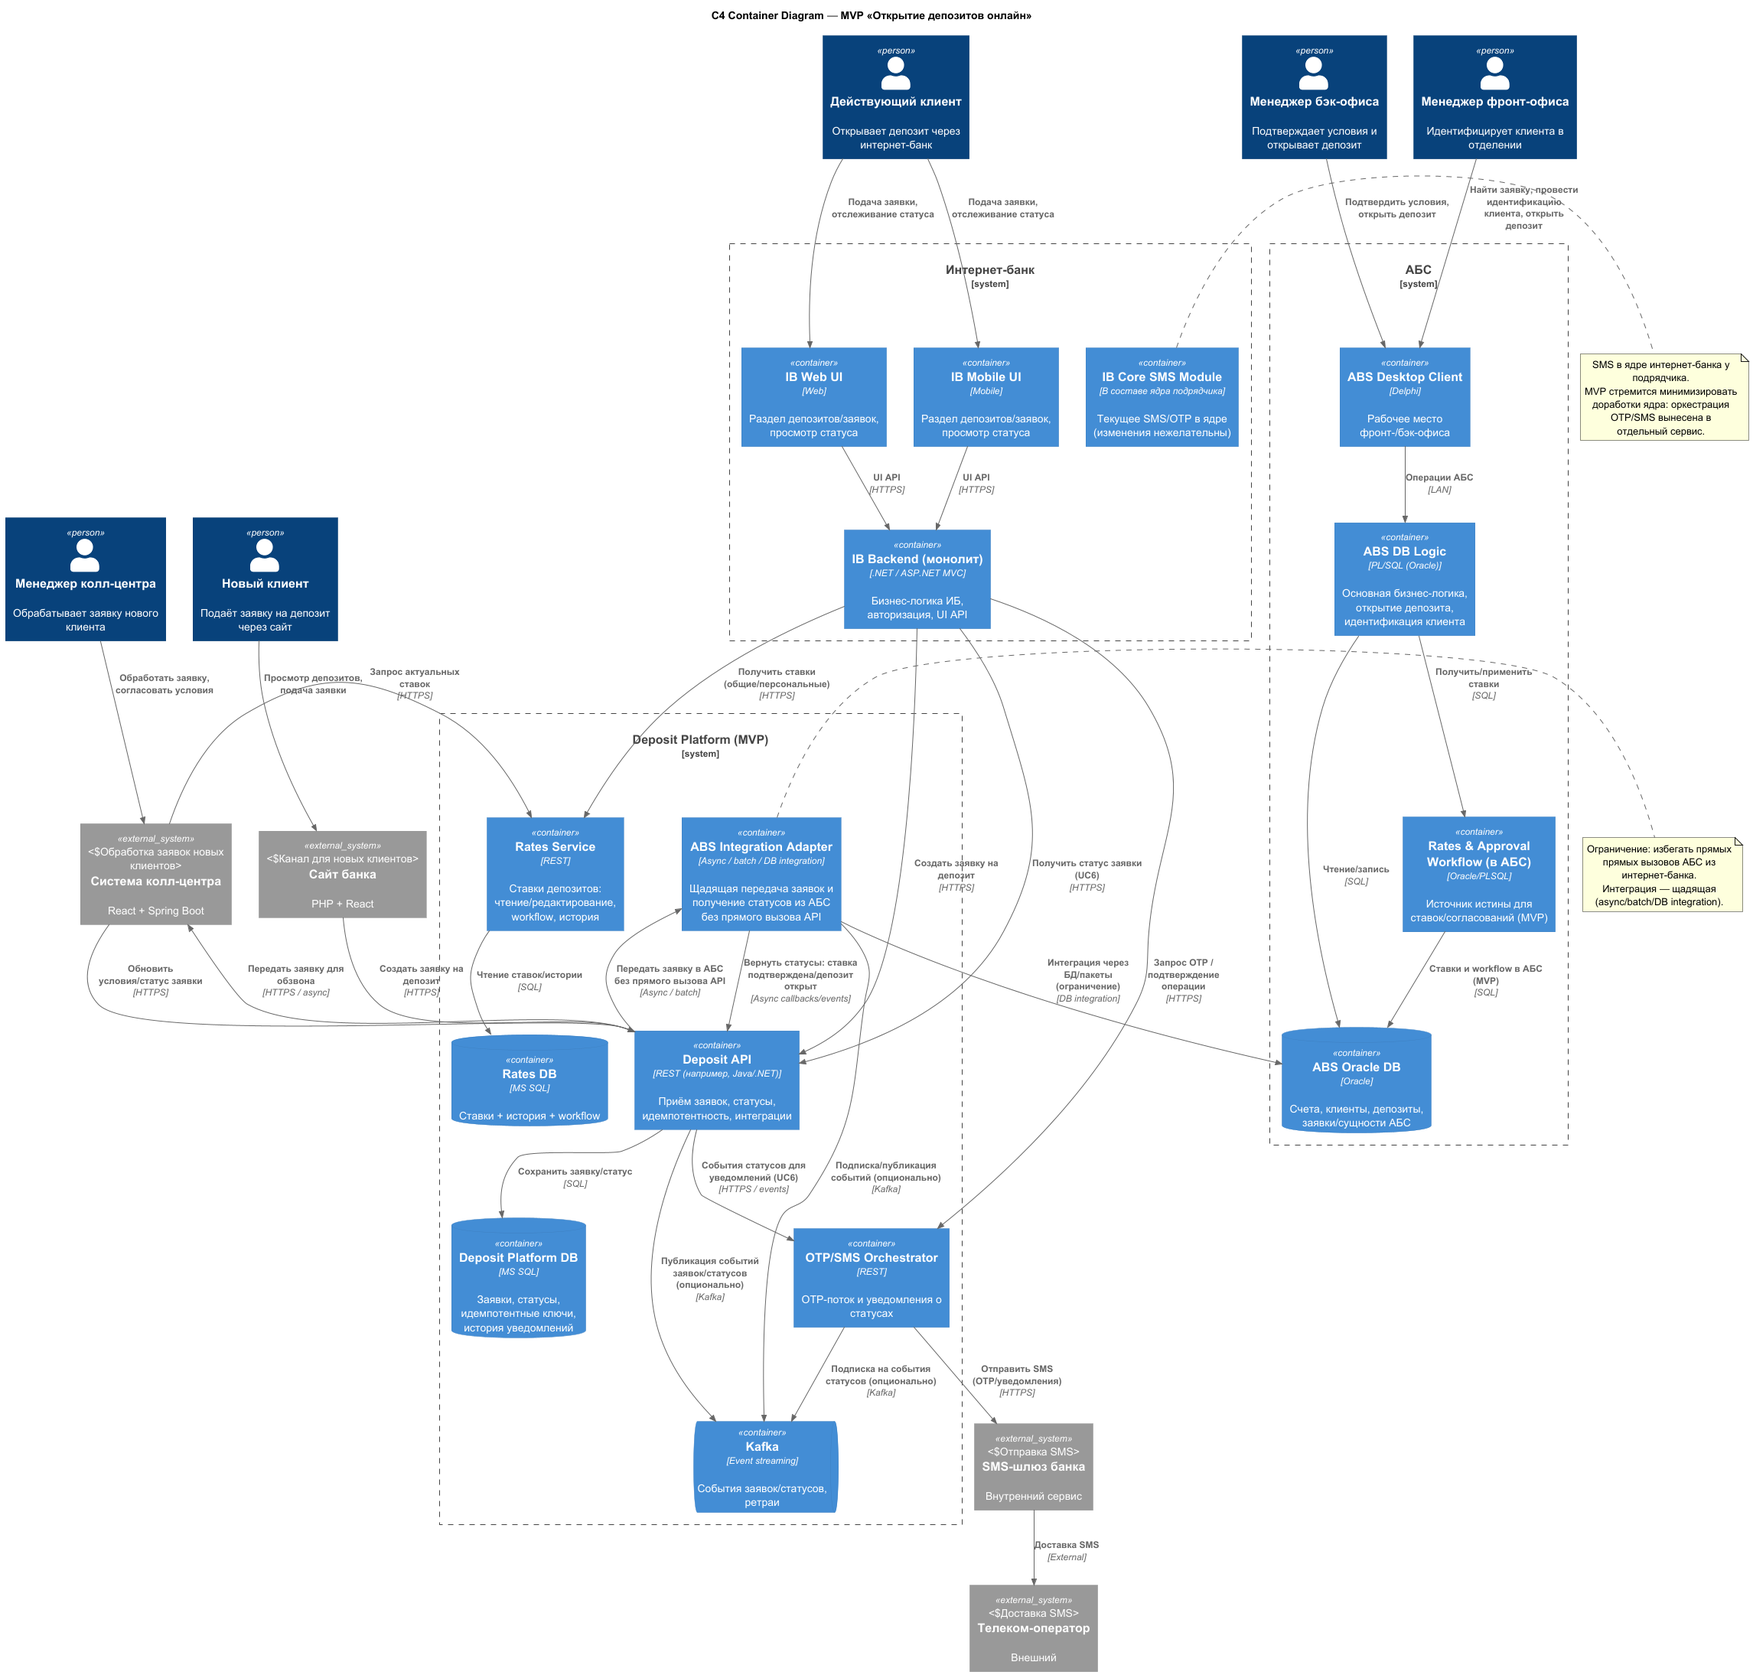
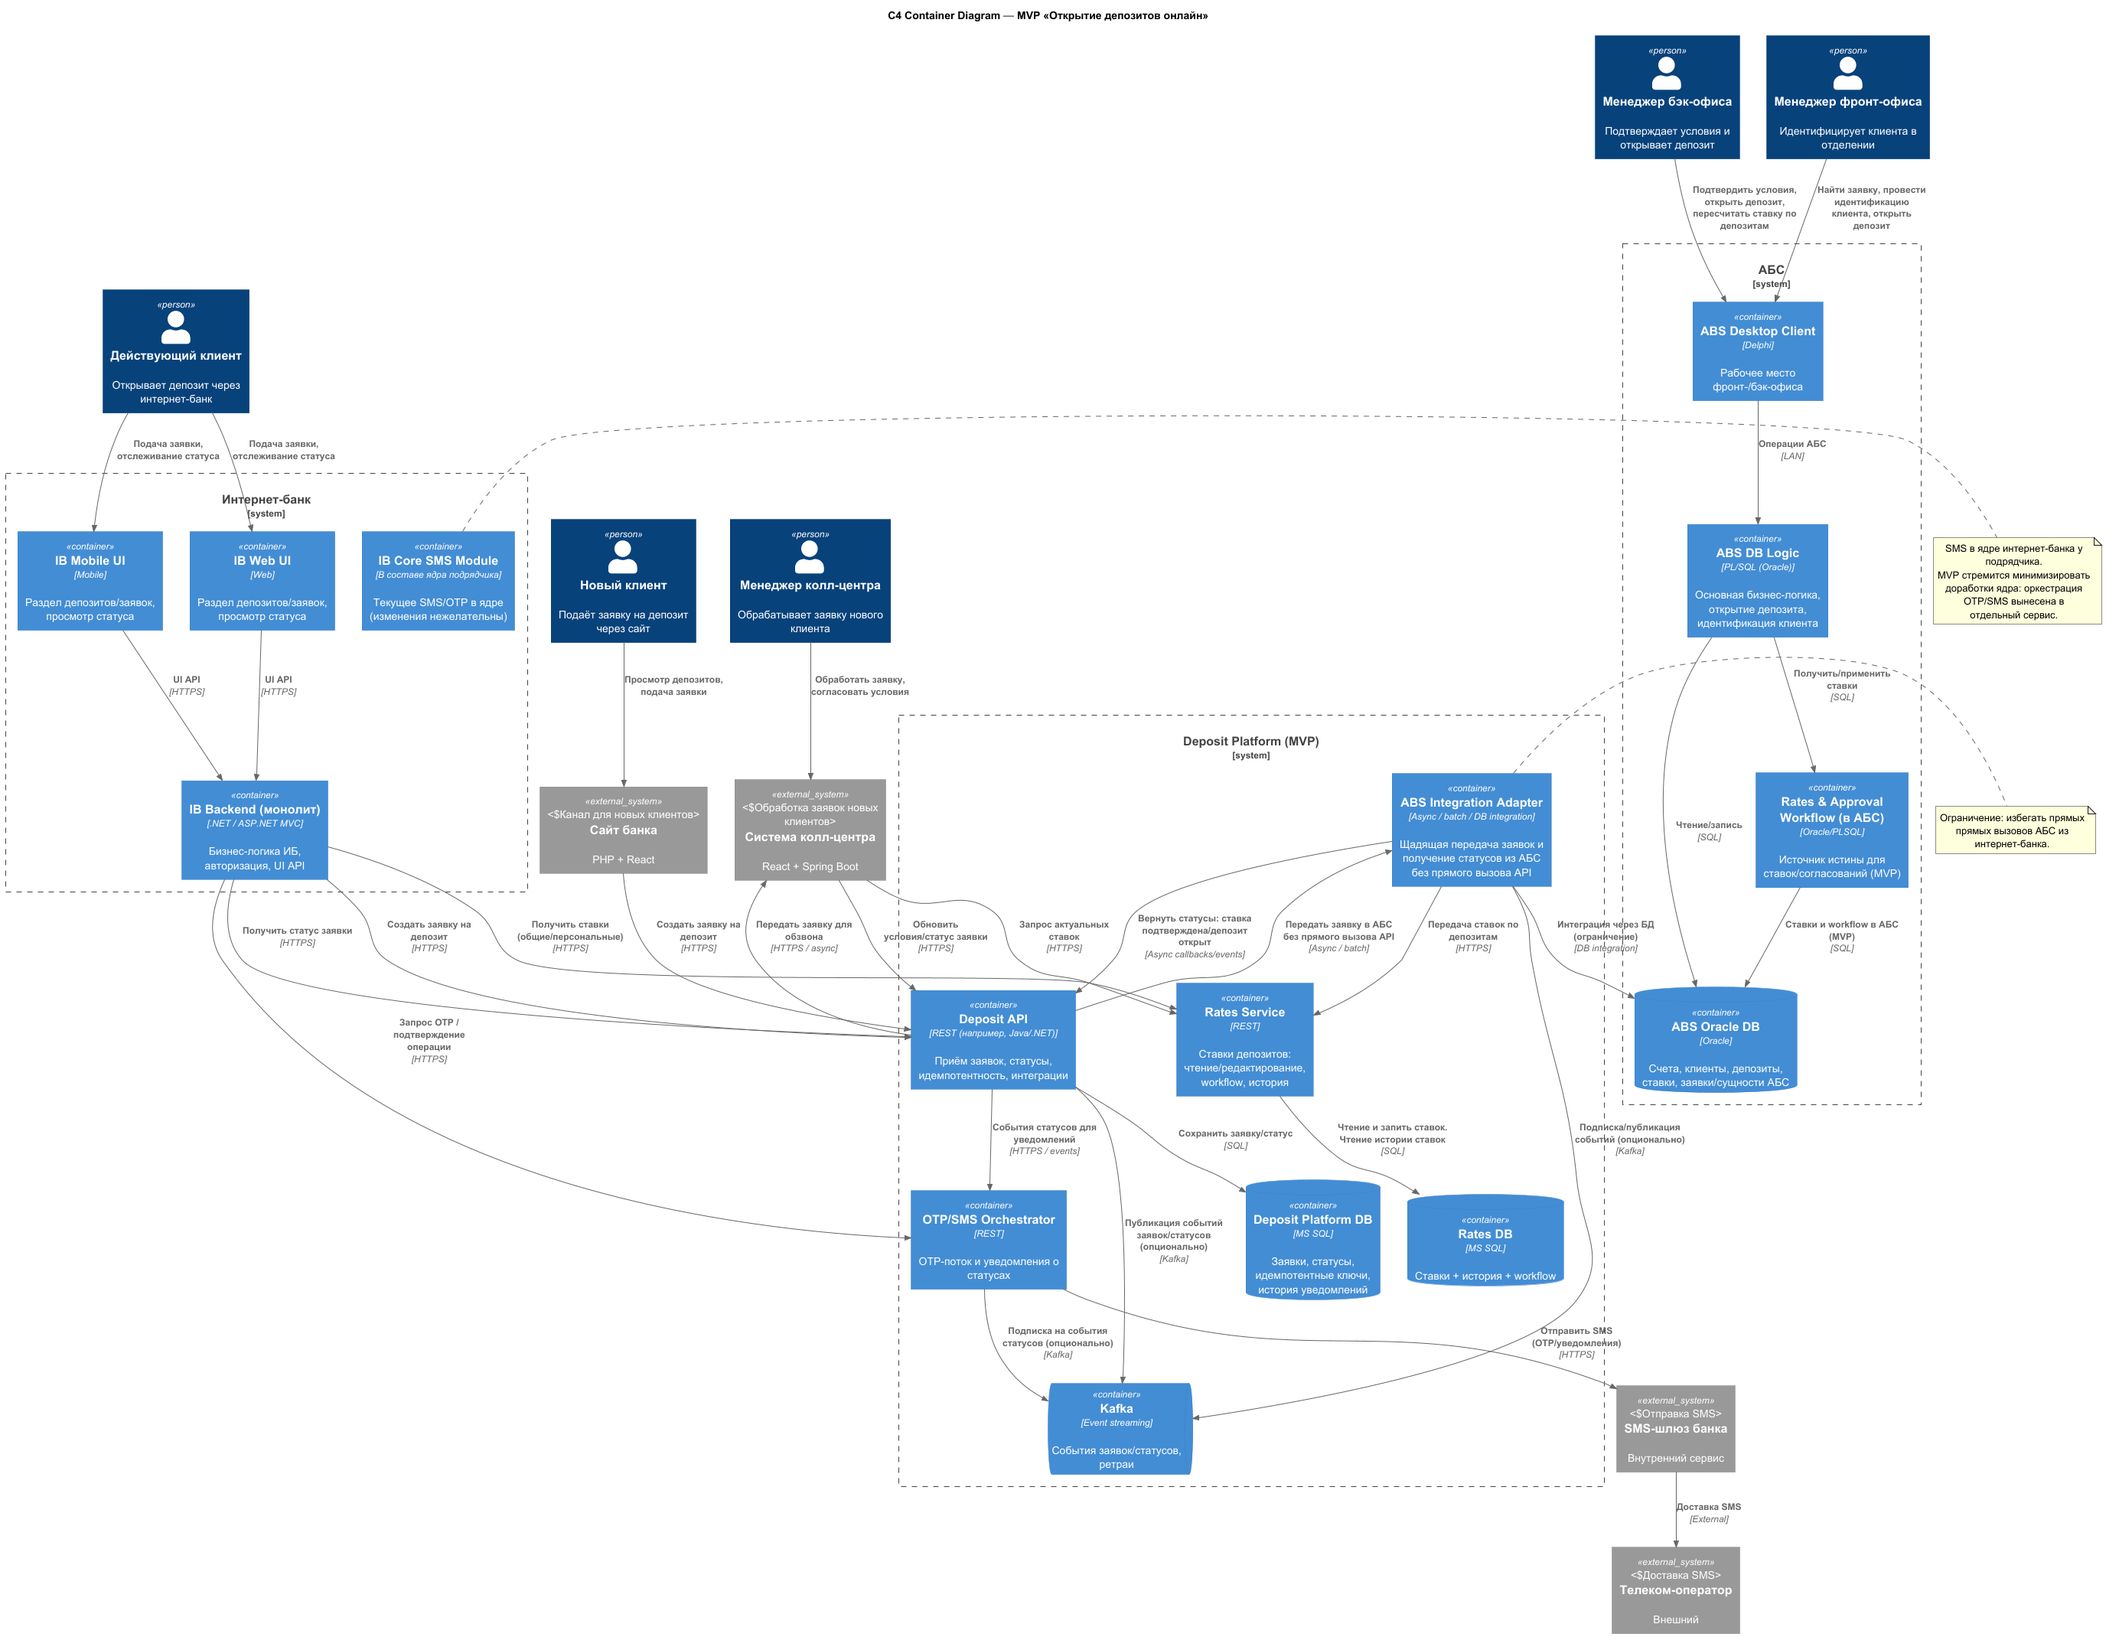
Task3: Fix containers diagram. Fix ADR Task4: Add FR, NFR, Context and Containers diagram.

diff --git a/Task4/ADR002.md b/Task4/ADR002.md
@@ -1,23 +1,34 @@
-### <a name="_b7urdng99y53"></a>**Название задачи:** 
-### <a name="_hjk0fkfyohdk"></a>**Автор:**
-### <a name="_uanumrh8zrui"></a>**Дата:**
+### <a name="_b7urdng99y53"></a>**Название задачи: ADR002 Передача ставок в кол-центр**
+
+### <a name="_hjk0fkfyohdk"></a>**Автор: Фёдоров Андрей**
+
+### <a name="_uanumrh8zrui"></a>**Дата: 2026-02-09**
+
 ### <a name="_3bfxc9a45514"></a>**Функциональные требования**
-Опишите здесь верхнеуровневые Use Cases. Их нужно оформить в виде таблицы с пошаговым описанием:
 
-|**№**|**Действующие лица или системы**|**Use Case**|**Описание**|
-| :-: | :- | :- | :- |
-|||||
+| **№** | **Действующие лица или системы**                         | **Use Case**                            | **Описание**                                                                                                                                                                                                                                         |
+|:-----:|:---------------------------------------------------------|:----------------------------------------|:-----------------------------------------------------------------------------------------------------------------------------------------------------------------------------------------------------------------------------------------------------|
+|  UC1  | Менеджер колл-центра, Система колл-центра, Rates Service | Просмотр актуальных ставок депозитов    | 1. Менеджер открывает карточку консультации/скрипт в системе колл-центра.<br/>2. Система колл-центра запрашивает актуальные общие ставки у Rates Service.<br/>3. Менеджер видит ставки и консультирует клиента.                                      |
+|  UC2  | Rates Service, Партнёрский колл-центр (внешняя система)  | Выгрузка актуальных ставок для партнёра | 1. Rates Service формирует файл со ставками в согласованном формате.<br/>2. Rates Service размещает файл в согласованном канале передачи.<br/>3. Банк фиксирует факт выгрузки.<br/>4. В случае ошибки выгрузки выполняются ретраи и создаётся алерт. |
+
 ### <a name="_u8xz25hbrgql"></a>**Нефункциональные требования**
-Опишите здесь нефункциональные требования и архитектурно значимые требования.
 
-|**№**|**Требование**|
-| :-: | :- |
-|||
+| **№**  | **Требование**                                                                                                                                                                                 |
+|:------:|:-----------------------------------------------------------------------------------------------------------------------------------------------------------------------------------------------|
+| **R**  | **Надёжность (Reliability)**                                                                                                                                                                   |
+|   R1   | Передача файлов со ставками во внешний партнёрский колл-центр должна быть устойчивой к временным сбоям, поддерживать ретраи, контроль успешности передачи и алертинг при ошибках.              |
+| **+R** | **+ Ограничения (Restrictions)**                                                                                                                                                               |
+|  +R1   | Актуальные ставки по депозитам должны быть доступны сотрудникам внутреннего и партнёрского колл-центров с задержкой не более 5 минут (уточняется) с момента их утверждения в источнике ставок. |
+|  +R2   | Получение ставок колл-центрами не должно приводить к прямым обращениям к АБС и не должно увеличивать нагрузку на её базу данных.                                                               |
+|  +R3   | Взаимодействие с партнёрским колл-центром осуществляется без API-вызовов, исключительно через файловый обмен в согласованном формате.                                                          |
+
 ### <a name="_qmphm5d6rvi3"></a>**Решение**
-Приведите диаграммы контекста и контейнеров в модели C4. Опишите там основные компоненты и интеграции всех элементов решения. 
 
-Также опишите, какой логикой вы руководствовались в ходе принятия решений и выбора технологий. Не забывайте, что необходимо учесть все функциональные и нефункциональные требования.
+Также опишите, какой логикой вы руководствовались в ходе принятия решений и выбора технологий. Не забывайте, что необходимо учесть все функциональные
+и нефункциональные требования.
+
 ### <a name="_bjrr7veeh80c"></a>**Альтернативы**
+
 Опишите здесь наиболее важные альтернативные решения.
 
 **Недостатки, ограничения, риски**

diff --git a/Task3/ADR001.md b/Task3/ADR001.md
@@ -1,12 +1,10 @@
-### <a name="_b7urdng99y53"></a>**Название задачи:** ADR001 MVP Цифровой трансформации банка "Стандарт"
+### <a name="_b7urdng99y53"></a>**Название задачи: ADR001 MVP Цифровой трансформации банка "Стандарт"**
 
-### <a name="_hjk0fkfyohdk"></a>**Автор:**
+### <a name="_hjk0fkfyohdk"></a>**Автор: Фёдоров Андрей**
 
 ### <a name="_uanumrh8zrui"></a>**Дата:** 2026-02-08
 
 ### <a name="_3bfxc9a45514"></a>**Функциональные требования**
-
-Опишите здесь верхнеуровневые Use Cases. Их нужно оформить в виде таблицы с пошаговым описанием:
 
 | **№** | **Действующие лица или системы**          | **Use Case**                                 | **Описание**                                                                                                                                                                                                                                                                                        |
 |:-----:|:------------------------------------------|:---------------------------------------------|:----------------------------------------------------------------------------------------------------------------------------------------------------------------------------------------------------------------------------------------------------------------------------------------------------|
@@ -16,10 +14,9 @@
 |  UC4  | Клиент (действующий)                      | Подача заявки на депозит через интернет-банк | 1. Клиент открывает раздел депозитов в интернет-банке.<br/>2. Клиент видит доступные депозиты и персональные ставки.<br/>3. Клиент выбирает депозит, счёт и сумму.<br/>4. Клиент подтверждает отправку заявки с помощью SMS-OTP.<br/>5. Система регистрирует заявку и отображает её статус клиенту. |
 |  UC5  | Менеджер бэк-офиса, АБС                   | Подтверждение условий депозита               | 1. Менеджер бэк-офиса получает заявку на депозит в АБС.<br/>2. Менеджер проверяет условия и при необходимости корректирует ставку.<br/>3. Менеджер подтверждает заявку.<br/>4. Система фиксирует изменение статуса заявки.                                                                          |
 |  UC6  | Клиент (действующий)                      | Получение информации о статусе заявки        | 1. Клиент получает СМС-уведомление об изменении статуса заявки.<br/>2. Клиент может просмотреть текущий статус заявки в интернет-банке.                                                                                                                                                             |
+|  UC7  | АБС, Rates Service                        | Обновление справочника ставок                | 1. В АБС утверждаются/изменяются общие ставки.<br/>2. Rates Service получает запрос на синхронизацию ставок.<br/>3. Rates Service обновляет read-модель ставок и историю изменений.<br/>4. Сервис становится источником чтения для колл-центров и каналов.                                          |
 
 ### <a name="_u8xz25hbrgql"></a>**Нефункциональные требования**
-
-Опишите здесь нефункциональные требования и архитектурно значимые требования.
 
 | **№**  | **Требование**                                                                                                                             |
 |:------:|:-------------------------------------------------------------------------------------------------------------------------------------------|
